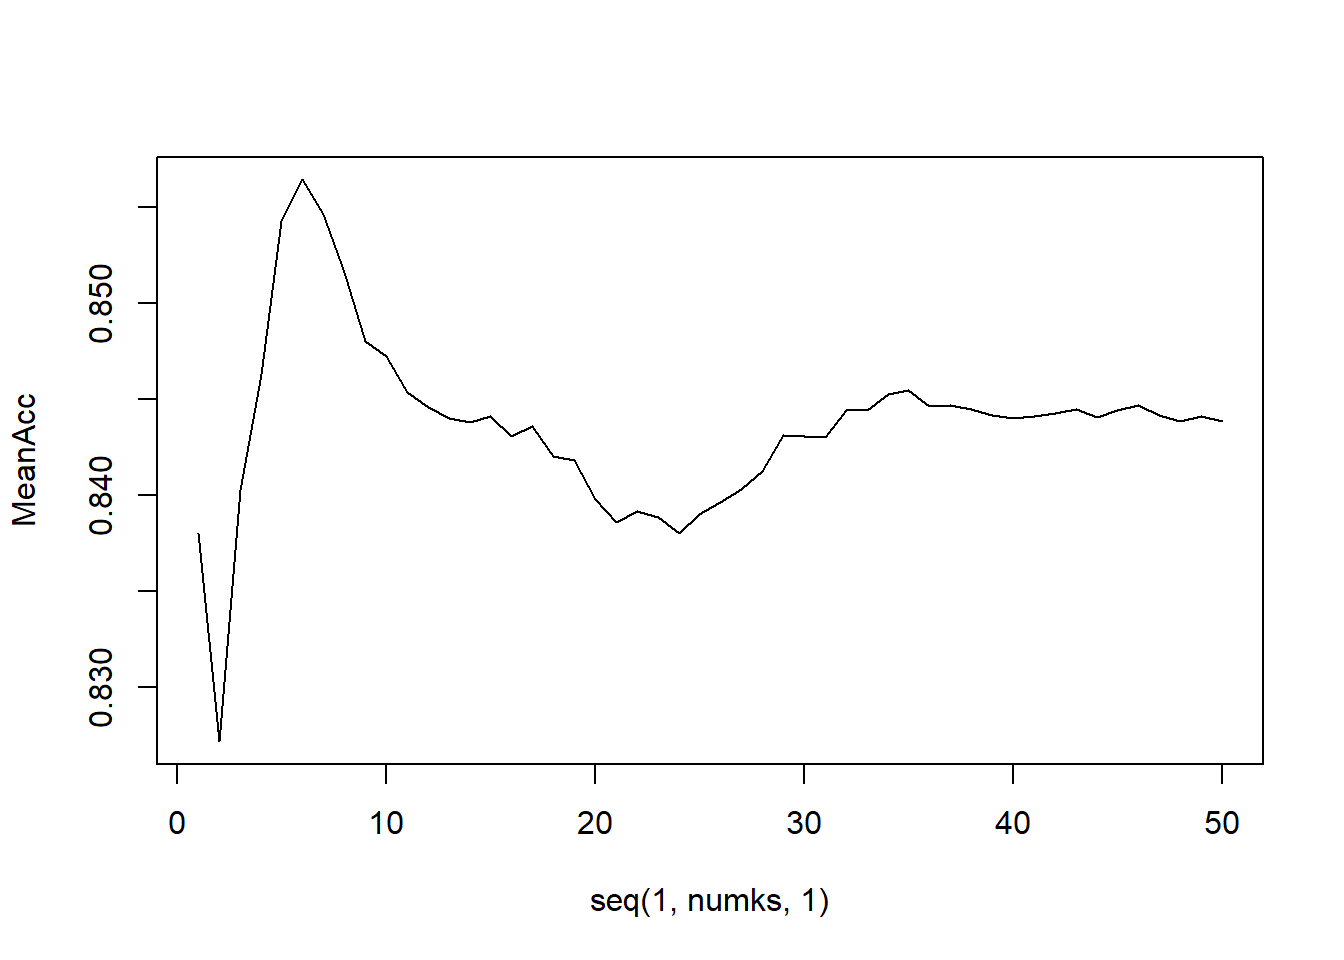
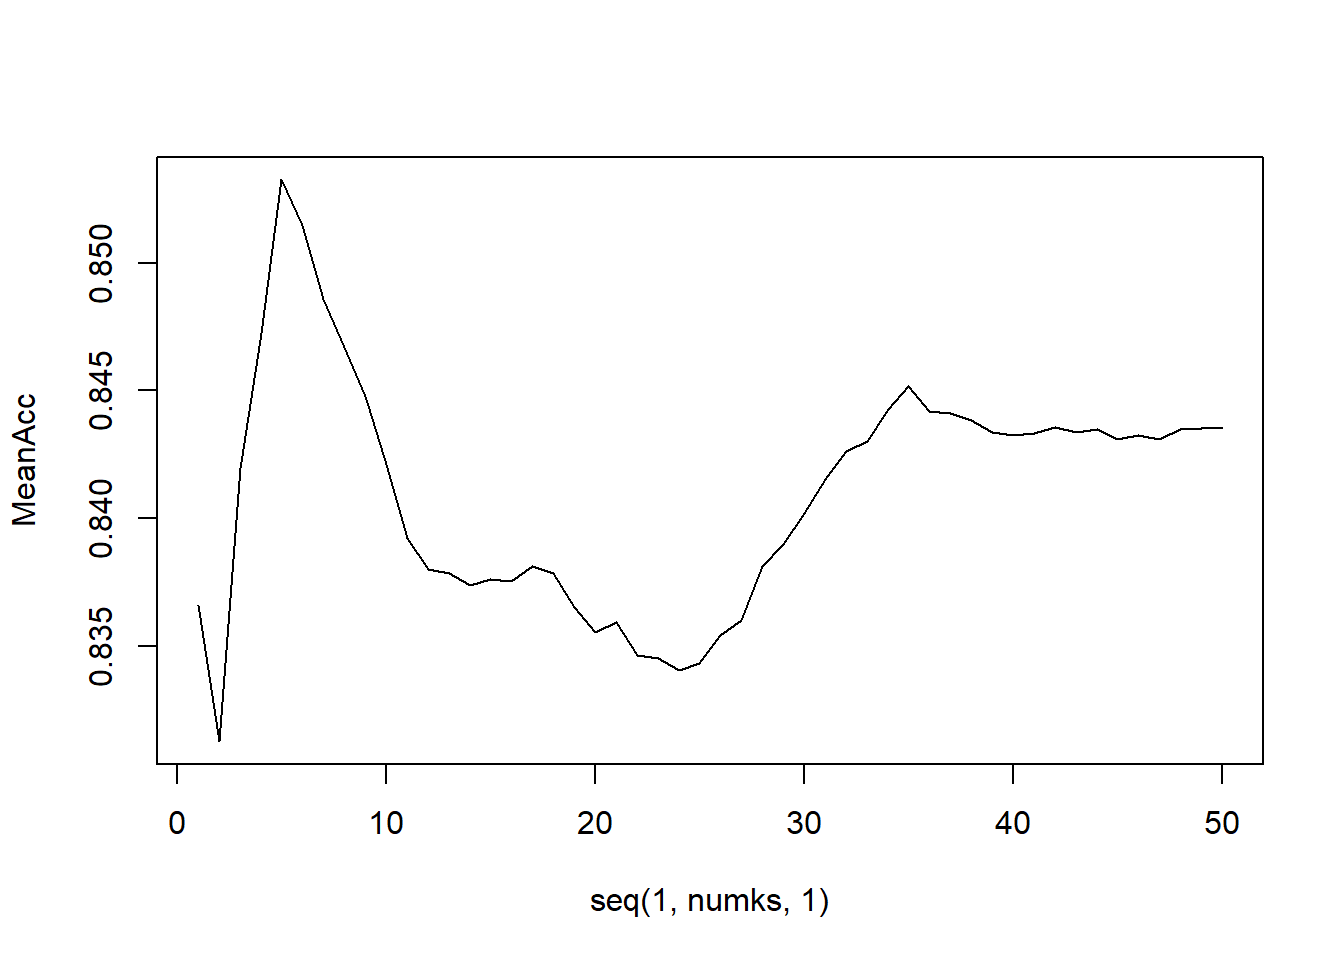
project2_fixed

diff --git a/_site/Project1.html b/_site/Project1.html
@@ -277,35 +277,12 @@ $(document).ready(function () {
 library(dplyr)
 library(readr)
 library(ggplot2)
-library(plotly)</code></pre>
-<pre><code>## 
-## Attaching package: &#39;plotly&#39;</code></pre>
-<pre><code>## The following object is masked from &#39;package:Hmisc&#39;:
-## 
-##     subplot</code></pre>
-<pre><code>## The following object is masked from &#39;package:ggplot2&#39;:
-## 
-##     last_plot</code></pre>
-<pre><code>## The following object is masked from &#39;package:stats&#39;:
-## 
-##     filter</code></pre>
-<pre><code>## The following object is masked from &#39;package:graphics&#39;:
-## 
-##     layout</code></pre>
-<pre class="r"><code>library(GGally)</code></pre>
-<pre><code>## Registered S3 method overwritten by &#39;GGally&#39;:
-##   method from   
-##   +.gg   ggplot2</code></pre>
-<pre class="r"><code>library(cowplot)
-library(ggpubr)</code></pre>
-<pre><code>## 
-## Attaching package: &#39;ggpubr&#39;</code></pre>
-<pre><code>## The following object is masked from &#39;package:cowplot&#39;:
-## 
-##     get_legend</code></pre>
-<pre class="r"><code>library(devtools)</code></pre>
-<pre><code>## Loading required package: usethis</code></pre>
-<pre class="r"><code>library(ggcorrplot)
+library(plotly)
+library(GGally)
+library(cowplot)
+library(ggpubr)
+library(devtools)
+library(ggcorrplot)
 library(ggfittext)
 library(class)
 library(caret)
@@ -920,10 +897,10 @@ plot(seq(1,numks,1),MeanAcc, type = &quot;l&quot;)</code></pre>
 <p><img src="Project1_files/figure-html/unnamed-chunk-1-7.png" width="672" /></p>
 <pre class="r"><code># Output the best k-value from the loop
 which.max(MeanAcc)</code></pre>
-<pre><code>## [1] 6</code></pre>
+<pre><code>## [1] 5</code></pre>
 <pre class="r"><code># Output the Accuracy of the knn classification using the best k-value
 max(MeanAcc)</code></pre>
-<pre><code>## [1] 0.8564211</code></pre>
+<pre><code>## [1] 0.8532632</code></pre>
 <pre class="r"><code># create a final confusion matrix using the best k-value
 classifications = knn(BB_Type_train[,c(3,4)],BB_Type_test[,c(3,4)],
                       BB_Type_train$Type, prob = TRUE, k = which.max(MeanAcc))
@@ -932,26 +909,26 @@ confusionMatrix(table(classifications,BB_Type_test$Type))</code></pre>
 ## 
 ##                
 ## classifications Ale IPA
-##             Ale  98  19
-##             IPA  12  61
+##             Ale  98  17
+##             IPA  18  57
 ##                                           
-##                Accuracy : 0.8368          
-##                  95% CI : (0.7765, 0.8864)
-##     No Information Rate : 0.5789          
-##     P-Value [Acc &gt; NIR] : 2.229e-14       
+##                Accuracy : 0.8158          
+##                  95% CI : (0.7532, 0.8682)
+##     No Information Rate : 0.6105          
+##     P-Value [Acc &gt; NIR] : 8.441e-10       
 ##                                           
-##                   Kappa : 0.6613          
+##                   Kappa : 0.6136          
 ##                                           
-##  Mcnemar&#39;s Test P-Value : 0.2812          
+##  Mcnemar&#39;s Test P-Value : 1               
 ##                                           
-##             Sensitivity : 0.8909          
-##             Specificity : 0.7625          
-##          Pos Pred Value : 0.8376          
-##          Neg Pred Value : 0.8356          
-##              Prevalence : 0.5789          
+##             Sensitivity : 0.8448          
+##             Specificity : 0.7703          
+##          Pos Pred Value : 0.8522          
+##          Neg Pred Value : 0.7600          
+##              Prevalence : 0.6105          
 ##          Detection Rate : 0.5158          
-##    Detection Prevalence : 0.6158          
-##       Balanced Accuracy : 0.8267          
+##    Detection Prevalence : 0.6053          
+##       Balanced Accuracy : 0.8075          
 ##                                           
 ##        &#39;Positive&#39; Class : Ale             
 ## </code></pre>
